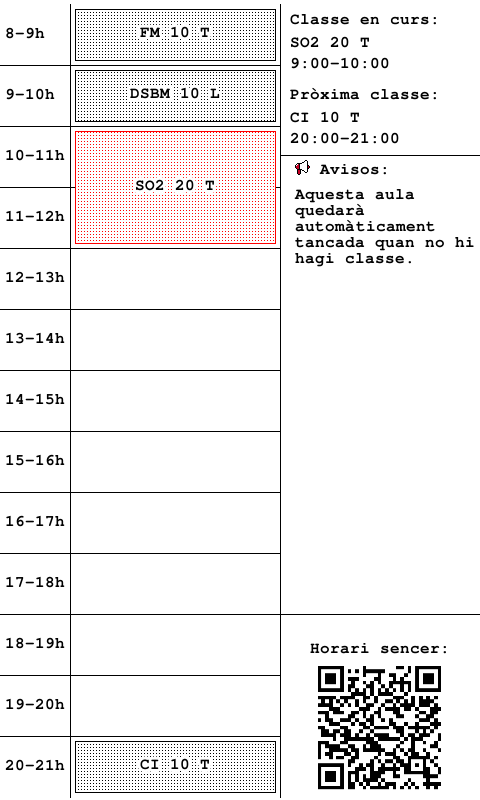
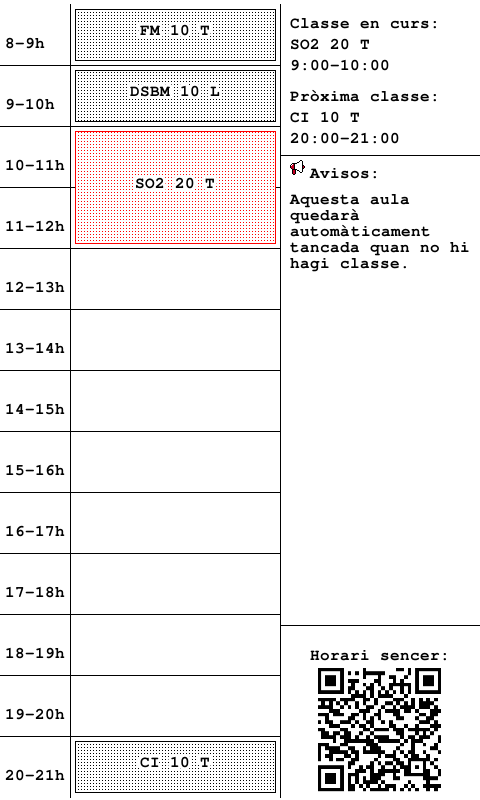
Creating more layouts

diff --git a/schedule_design/schedule_designer.py b/schedule_design/schedule_designer.py
@@ -7,6 +7,12 @@ CANVAS_WIDTH = 480
 CANVAS_HEIGHT = 800
 LEFT_COLUMN_WIDTH = 70
 RIGHT_COLUMN_START = 280
+TOP_ROW = 0
+BOTTOM_ROW = 0
+
+MARGIN = 5
+TOP_MARGIN = 4
+BOTTOM_MARGIN = 3
 
 # Colors
 BLACK = (0, 0, 0)
@@ -21,19 +27,19 @@ font = ImageFont.truetype("FreeMonoBold.ttf", 16)
 # === Functions ===
 def draw_class(position, label, duration):
     """Draws a class block at a given position with a label and duration."""
-    x_start = LEFT_COLUMN_WIDTH + 5
-    y_start = position * RECT_HEIGHT + 4
+    x_start = LEFT_COLUMN_WIDTH + MARGIN
+    y_start = position * RECT_HEIGHT + TOP_MARGIN
     width = RECT_WIDTH
     height = RECT_HEIGHT * duration
     color = RED if position == 2 else BLACK
 
     # Draw dotted pattern background
     for x in range(x_start, x_start + width):
-        for y in range(y_start + 5, y_start + height - 5):
+        for y in range(y_start + MARGIN, y_start + height - MARGIN):
             draw.point((x, y), fill=color if (x % 3 == 0 and y % 3 == 0) else WHITE)
 
     # Border around the class block
-    draw.rectangle((x_start, y_start + 5, x_start + width, y_start + height - 5), outline=color, width=1)
+    draw.rectangle((x_start, y_start + MARGIN, x_start + width, y_start + height - MARGIN), outline=color, width=1)
 
     # Center the text
     bbox = draw.textbbox((0, 0), label, font=font)
@@ -41,36 +47,37 @@ def draw_class(position, label, duration):
     text_height = bbox[3] - bbox[1]
 
     text_x = x_start + (width - text_width) // 2
-    text_y = y_start + (height - text_height) // 2 - 10
+    text_y = y_start + (height - text_height) // 2 - text_height
     draw.text((text_x, text_y), label, font=font, fill=BLACK, stroke_width=3, stroke_fill=WHITE)
 
 def draw_hour_labels():
     """Draws hour ranges (8-21h) on the left."""
-    x = 5
-    pos = 0
+    x = MARGIN
+    bbox = draw.textbbox((0, 0), "A", font=font)
+    text_height = bbox[3] - bbox[1]
+    y = TOP_MARGIN + (RECT_HEIGHT+text_height)//2 - text_height
+    pos = 1
     for hour in range(8, 21):
-        bbox = draw.textbbox((0, 0), "A", font=font)
-        text_height = bbox[3] - bbox[1]
-        y = 4 + (RECT_HEIGHT - text_height) // 2 - 10 + RECT_HEIGHT * pos
         draw.text((x, y), f"{hour}-{hour + 1}h", font=font, fill=BLACK)
-        if hour > 8:
-            draw.line((0, RECT_HEIGHT * pos + 4, RIGHT_COLUMN_START, RECT_HEIGHT * pos + 4), fill=BLACK)
+        if hour != 20:
+            draw.line((0, RECT_HEIGHT * pos + TOP_MARGIN, RIGHT_COLUMN_START, RECT_HEIGHT * pos + TOP_MARGIN), fill=BLACK)
+        y += RECT_HEIGHT
         pos += 1
 
 def draw_layout_lines():
     """Draws vertical grid lines."""
-    draw.line((RIGHT_COLUMN_START, 4, RIGHT_COLUMN_START, CANVAS_HEIGHT - 3), fill=BLACK)
-    draw.line((LEFT_COLUMN_WIDTH, 4, LEFT_COLUMN_WIDTH, CANVAS_HEIGHT - 3), fill=BLACK)
+    draw.line((RIGHT_COLUMN_START, TOP_MARGIN, RIGHT_COLUMN_START, CANVAS_HEIGHT - BOTTOM_MARGIN), fill=BLACK)
+    draw.line((LEFT_COLUMN_WIDTH, TOP_MARGIN, LEFT_COLUMN_WIDTH, CANVAS_HEIGHT - BOTTOM_MARGIN), fill=BLACK)
 
 def place_qr_code():
     """Places the QR code and a label below it."""
-    qr = Image.open("qr.png").convert("RGB")
+    qr = Image.open("icons\\qr.png").convert("RGB")
     qr_size = (125, 125)
     qr = qr.resize(qr_size, resample=Image.NEAREST)
     
     # Position QR at the bottom center between columns
     qr_x = (CANVAS_WIDTH + RIGHT_COLUMN_START - qr_size[0]) // 2
-    qr_y = CANVAS_HEIGHT - qr_size[1] - 10
+    qr_y = CANVAS_HEIGHT - qr_size[1] - BOTTOM_MARGIN - MARGIN
     image.paste(qr, (qr_x, qr_y))
     
     # Draw label above QR
@@ -79,54 +86,64 @@ def place_qr_code():
     text_width = bbox[2] - bbox[0]
     text_height = bbox[3] - bbox[1]
     text_x = (CANVAS_WIDTH + RIGHT_COLUMN_START - text_width) // 2
-    text_y = qr_y - text_height - 20
+    text_y = qr_y - text_height - MARGIN*3
     draw.text((text_x, text_y), label, font=font, fill=BLACK)
 
-    text_y += text_height - 31
+    text_y -= text_height+MARGIN
+    global BOTTOM_ROW
+    BOTTOM_ROW = text_y
     draw.line((RIGHT_COLUMN_START, text_y, CANVAS_WIDTH, text_y), fill=BLACK)
 
 def current_next_class():
     text = "Classe en curs:"
     bbox = draw.textbbox((0, 0), text, font=font)
     text_height = bbox[3] - bbox[1]
-    text_x = RIGHT_COLUMN_START + 10
-    text_y = 5
+    text_x = RIGHT_COLUMN_START + 2*MARGIN
+    text_y = MARGIN+TOP_MARGIN
     draw.text((text_x, text_y), text, font=font, fill=BLACK)
-    text_y += text_height + 12
+    text_y += text_height+MARGIN*2
 
     text = "SO2 20 T"
     draw.text((text_x, text_y), text, font=font, fill=BLACK)
-    text_y += text_height + 10
+    text_y += text_height+MARGIN*2
     draw.text((text_x, text_y), "9:00-10:00", font=font, fill=BLACK)
-    text_y += text_height + 20
+    text_y += text_height+MARGIN*4
 
     text = "Pròxima classe:"
     draw.text((text_x, text_y), text, font=font, fill=BLACK)
-    text_y += text_height + 12
+    text_y += text_height+MARGIN*2
 
     text = "CI 10 T"
     draw.text((text_x, text_y), text, font=font, fill=BLACK)
-    text_y += text_height + 10
+    text_y += text_height+MARGIN*2
     draw.text((text_x, text_y), "20:00-21:00", font=font, fill=BLACK)
-    text_y += text_height + 20
-
+    text_y += text_height+MARGIN*4
+    
+    global TOP_ROW 
+    TOP_ROW = text_y
     draw.line((RIGHT_COLUMN_START, text_y, CANVAS_WIDTH, text_y), fill=BLACK)
 
 def draw_messages(msg):
-    text_x = RIGHT_COLUMN_START + 15
-    text_y = 160
-    draw.text((text_x+25, text_y-5), "Avisos:", font=font, fill=BLACK)
-    img = Image.open("avisos.png").convert("RGB")
+    text_x = RIGHT_COLUMN_START + MARGIN*2
+    text_y = MARGIN+TOP_ROW
+    print(TOP_ROW)
+    icon_size = 15
+    bbox = draw.textbbox((0, 0), msg, font=font)
+    text_width = bbox[2] - bbox[0]
+    text_height = bbox[3] - bbox[1]
+    draw.text((text_x+icon_size+MARGIN, text_y-text_height+icon_size), "Avisos:", font=font, fill=BLACK)
+    img = Image.open("icons\\avisos.png").convert("RGB")
     img = img.resize((15, 15), resample=Image.NEAREST)
     image.paste(img, (text_x, text_y))
 
-    text_y += 20
+    text_y += icon_size+MARGIN*2
     if (msg == None):
         msg = "No hi ha cap avís"
         bbox = draw.textbbox((0, 0), msg, font=font)
         text_width = bbox[2] - bbox[0]
+        text_height = bbox[3] - bbox[1]
         text_x = (CANVAS_WIDTH + RIGHT_COLUMN_START - text_width) // 2
-        text_y = 740 // 2
+        text_y = (BOTTOM_ROW-TOP_ROW)//2 + text_y
         draw.text((text_x, text_y), line, font=font, fill=BLACK)
     else:
         words = msg.split()
@@ -167,8 +184,8 @@ draw_class(2, "SO2 20 T", 2)
 draw_class(12, "CI 10 T", 1)
 
 current_next_class()
-draw_messages("Aquesta aula quedarà automàticament tancada quan no hi hagi classe.")
 place_qr_code()
+draw_messages("Aquesta aula quedarà automàticament tancada quan no hi hagi classe.")
 
 # === Final Output ===
 image.save("simulated.png")

diff --git a/schedule_design/schedule_design.h b/schedule_design/schedule_design.h
@@ -1,0 +1,26 @@
+#include <GxEPD2_3C.h>
+#include <Fonts/FreeMonoBold9pt7b.h>
+#include <Fonts/FreeMono9pt7b.h>
+#include "schedule.h"
+
+#include <WiFi.h>
+#include <time.h>
+#include "wifi_secure.h"
+
+// Pin definition
+#define PWR  D11  // 7
+#define BUSY D7   // 18
+#define RST  D6   // 1
+#define DC   D3   // 14
+#define CS   SS   // 5
+
+// Display size
+#define DISPLAY_HEIGHT 800
+#define DISPLAY_WIDTH 480
+
+enum Layout {
+  DEFAULT_LAYOUT,
+  DEFAULT_NO_LINES,
+  HALF_DAY
+  // add more as needed
+};
